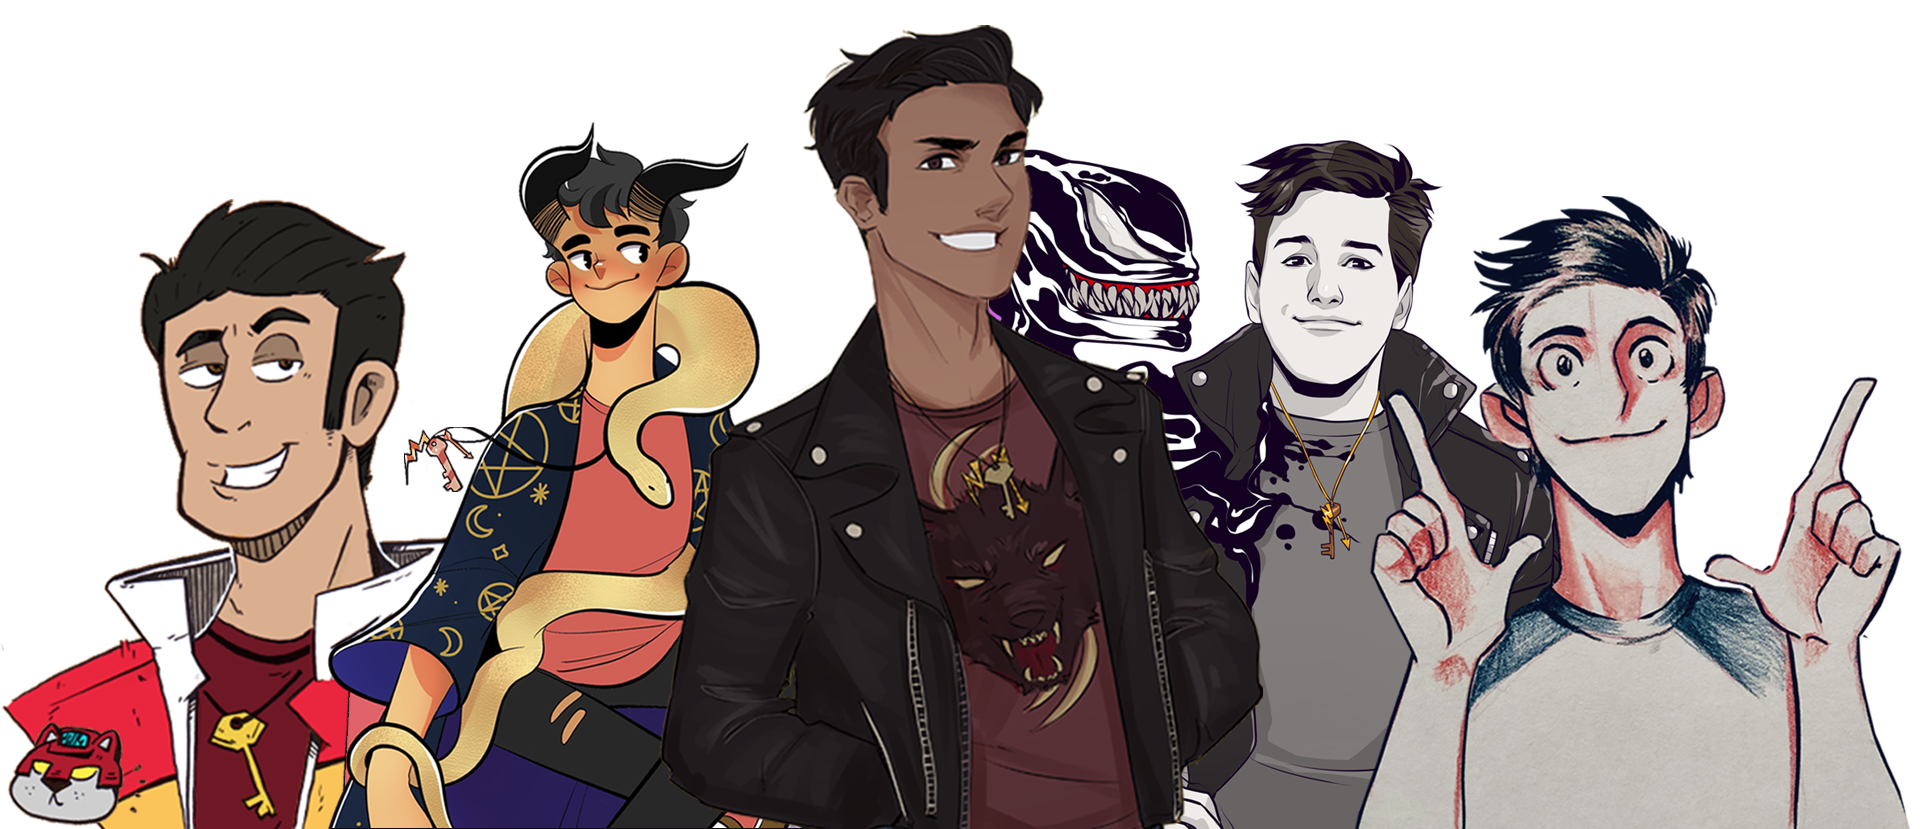
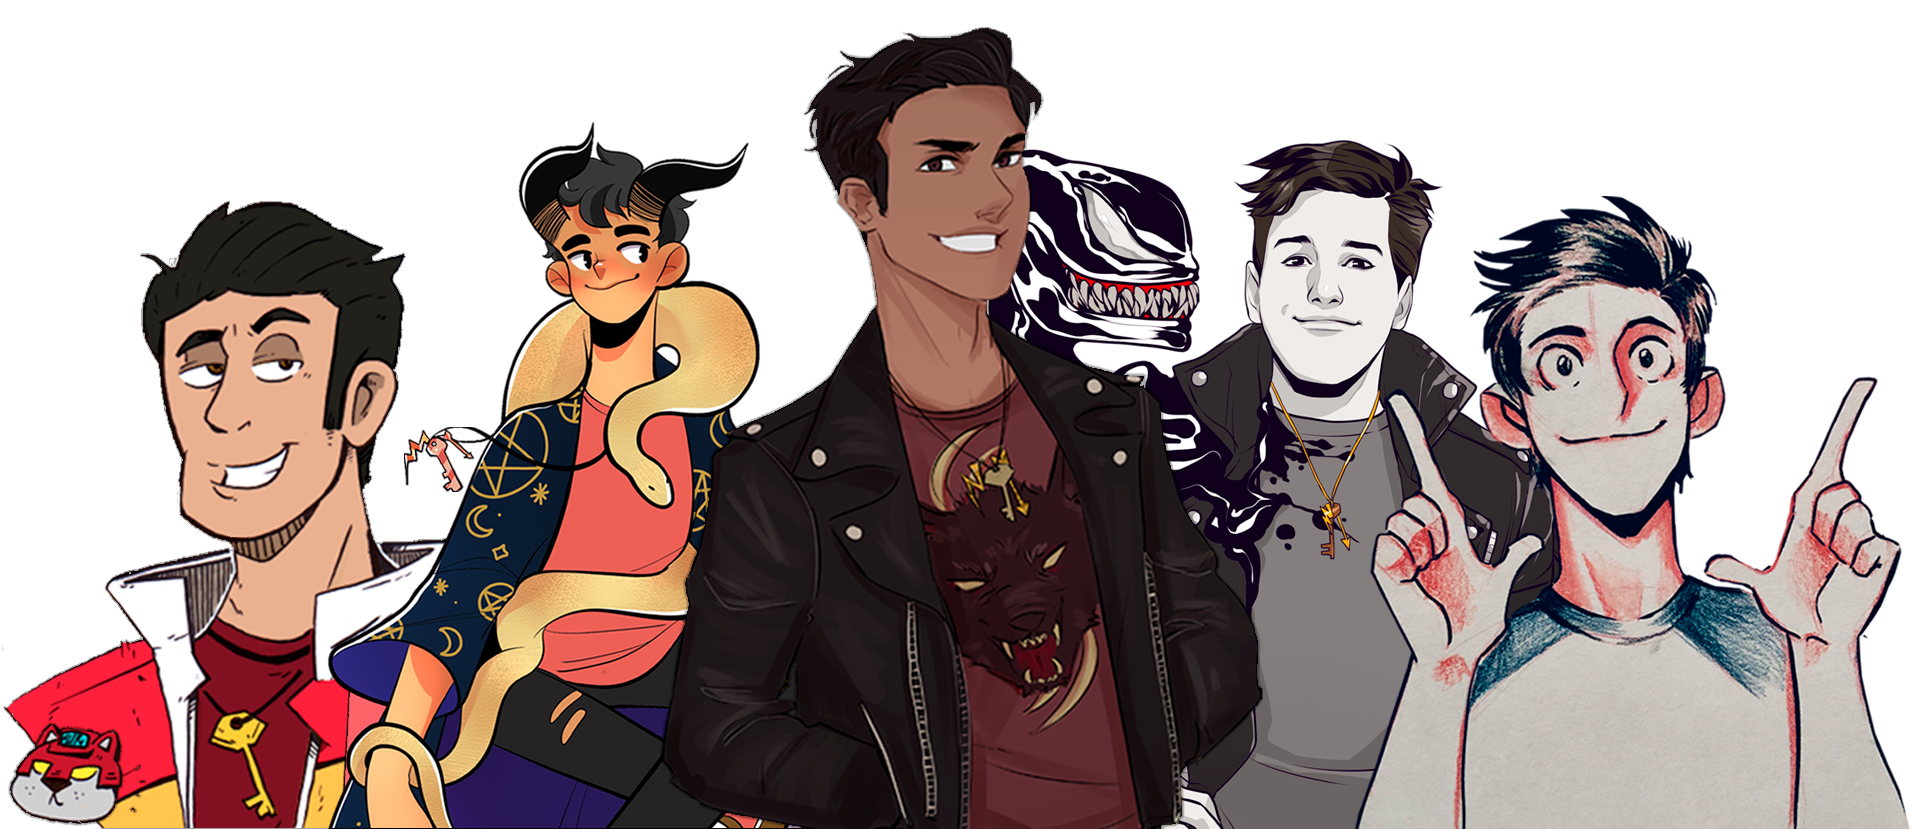
Arreglo de imagen collage

diff --git a/css/estilosabout.css b/css/estilosabout.css
@@ -11,26 +11,30 @@ html, body {
     grid-gap: 5px;
     grid-template-columns: repeat(auto-fill, minmax(250px, 1fr));
     grid-auto-rows: minmax(150px,auto);
-    background-color: #252323;
+    background-color: #635D5D;
     }
 
     .headermenu {
         grid-area: 1/1/9/1;
     }
 
+
     .footeritems {
         grid-area: 7/1/9/9;
         align-self: flex-end;
         width: 100vw;
-        background-color: #370000;
+        background-color: #0C0A0A;
         font-family: 'Ubuntu', sans-serif;
         height: 150px;
         z-index: 11;
     }
 
     .collage {
-        grid-area: 6/1/9/9;
-        align-content: center;
+        display: flex;
+        margin: 0 auto;
+        padding-left: 2%;
+        grid-area: 6/1/8/10;
         z-index: 10;
+
     }
 

diff --git a/about.html b/about.html
@@ -35,10 +35,9 @@
                 <a href="contact.html"><li>Contact</li></a>
             </ul>
         </header>
-        <p>Holaaa
-            aaa
-        </p>
-            <img class="collage" src="images/about.png">
+        <div class="collage">
+            <img src="images/abot.png">
+        </div>
         <footer class="footeritems">
             <div class="socialmedia">
             <a href="https://twitter.com/moisessketch"><i class="fab fa-twitter"></i></a>

diff --git a/css/estiloshome.css b/css/estiloshome.css
@@ -3,7 +3,7 @@
   }
 
 .headermenu {
-    background-color: #630E15;
+    background-color: #0E0A0A;
     font-family: 'Ubuntu', sans-serif;
     height: 200px;
     width: 100vw;
@@ -55,7 +55,7 @@ a:hover
     display: none;
     flex-direction: row;
     align-content: inherit;
-    background-color: #630E15;
+    background-color: #0E0A0A;
     min-width: 200px;
     font-size: 1rem;
     margin-left: -17%;
